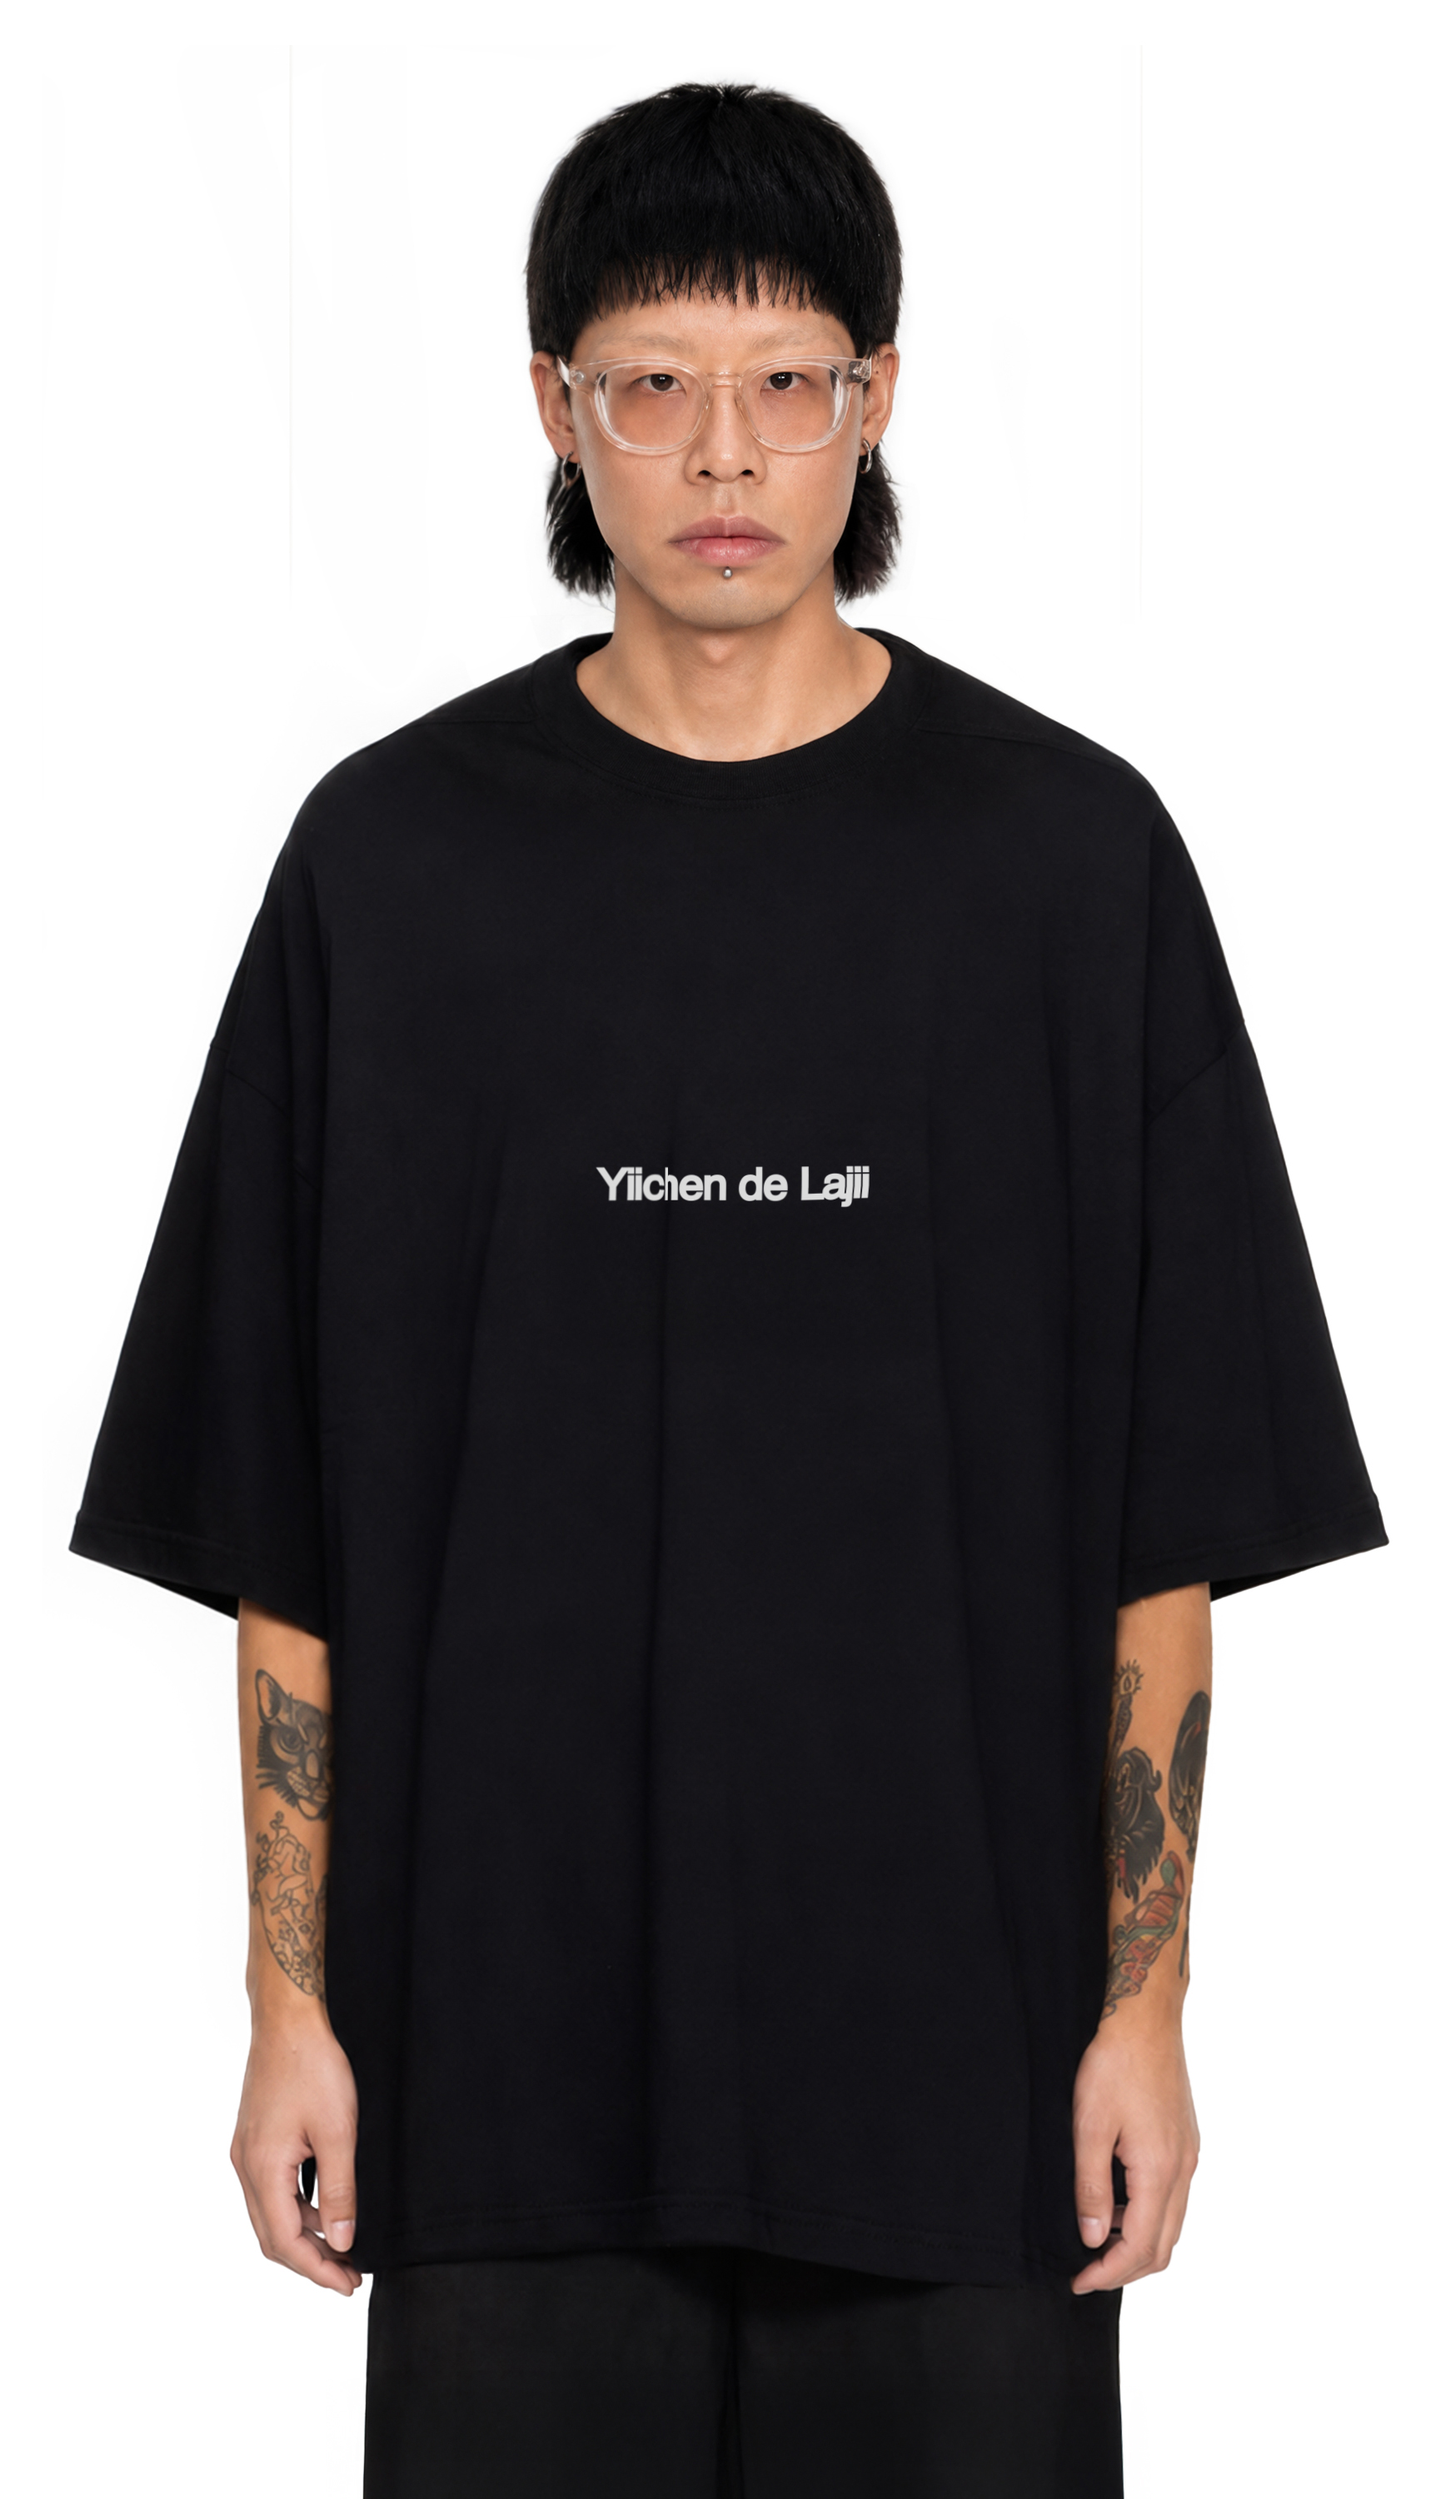
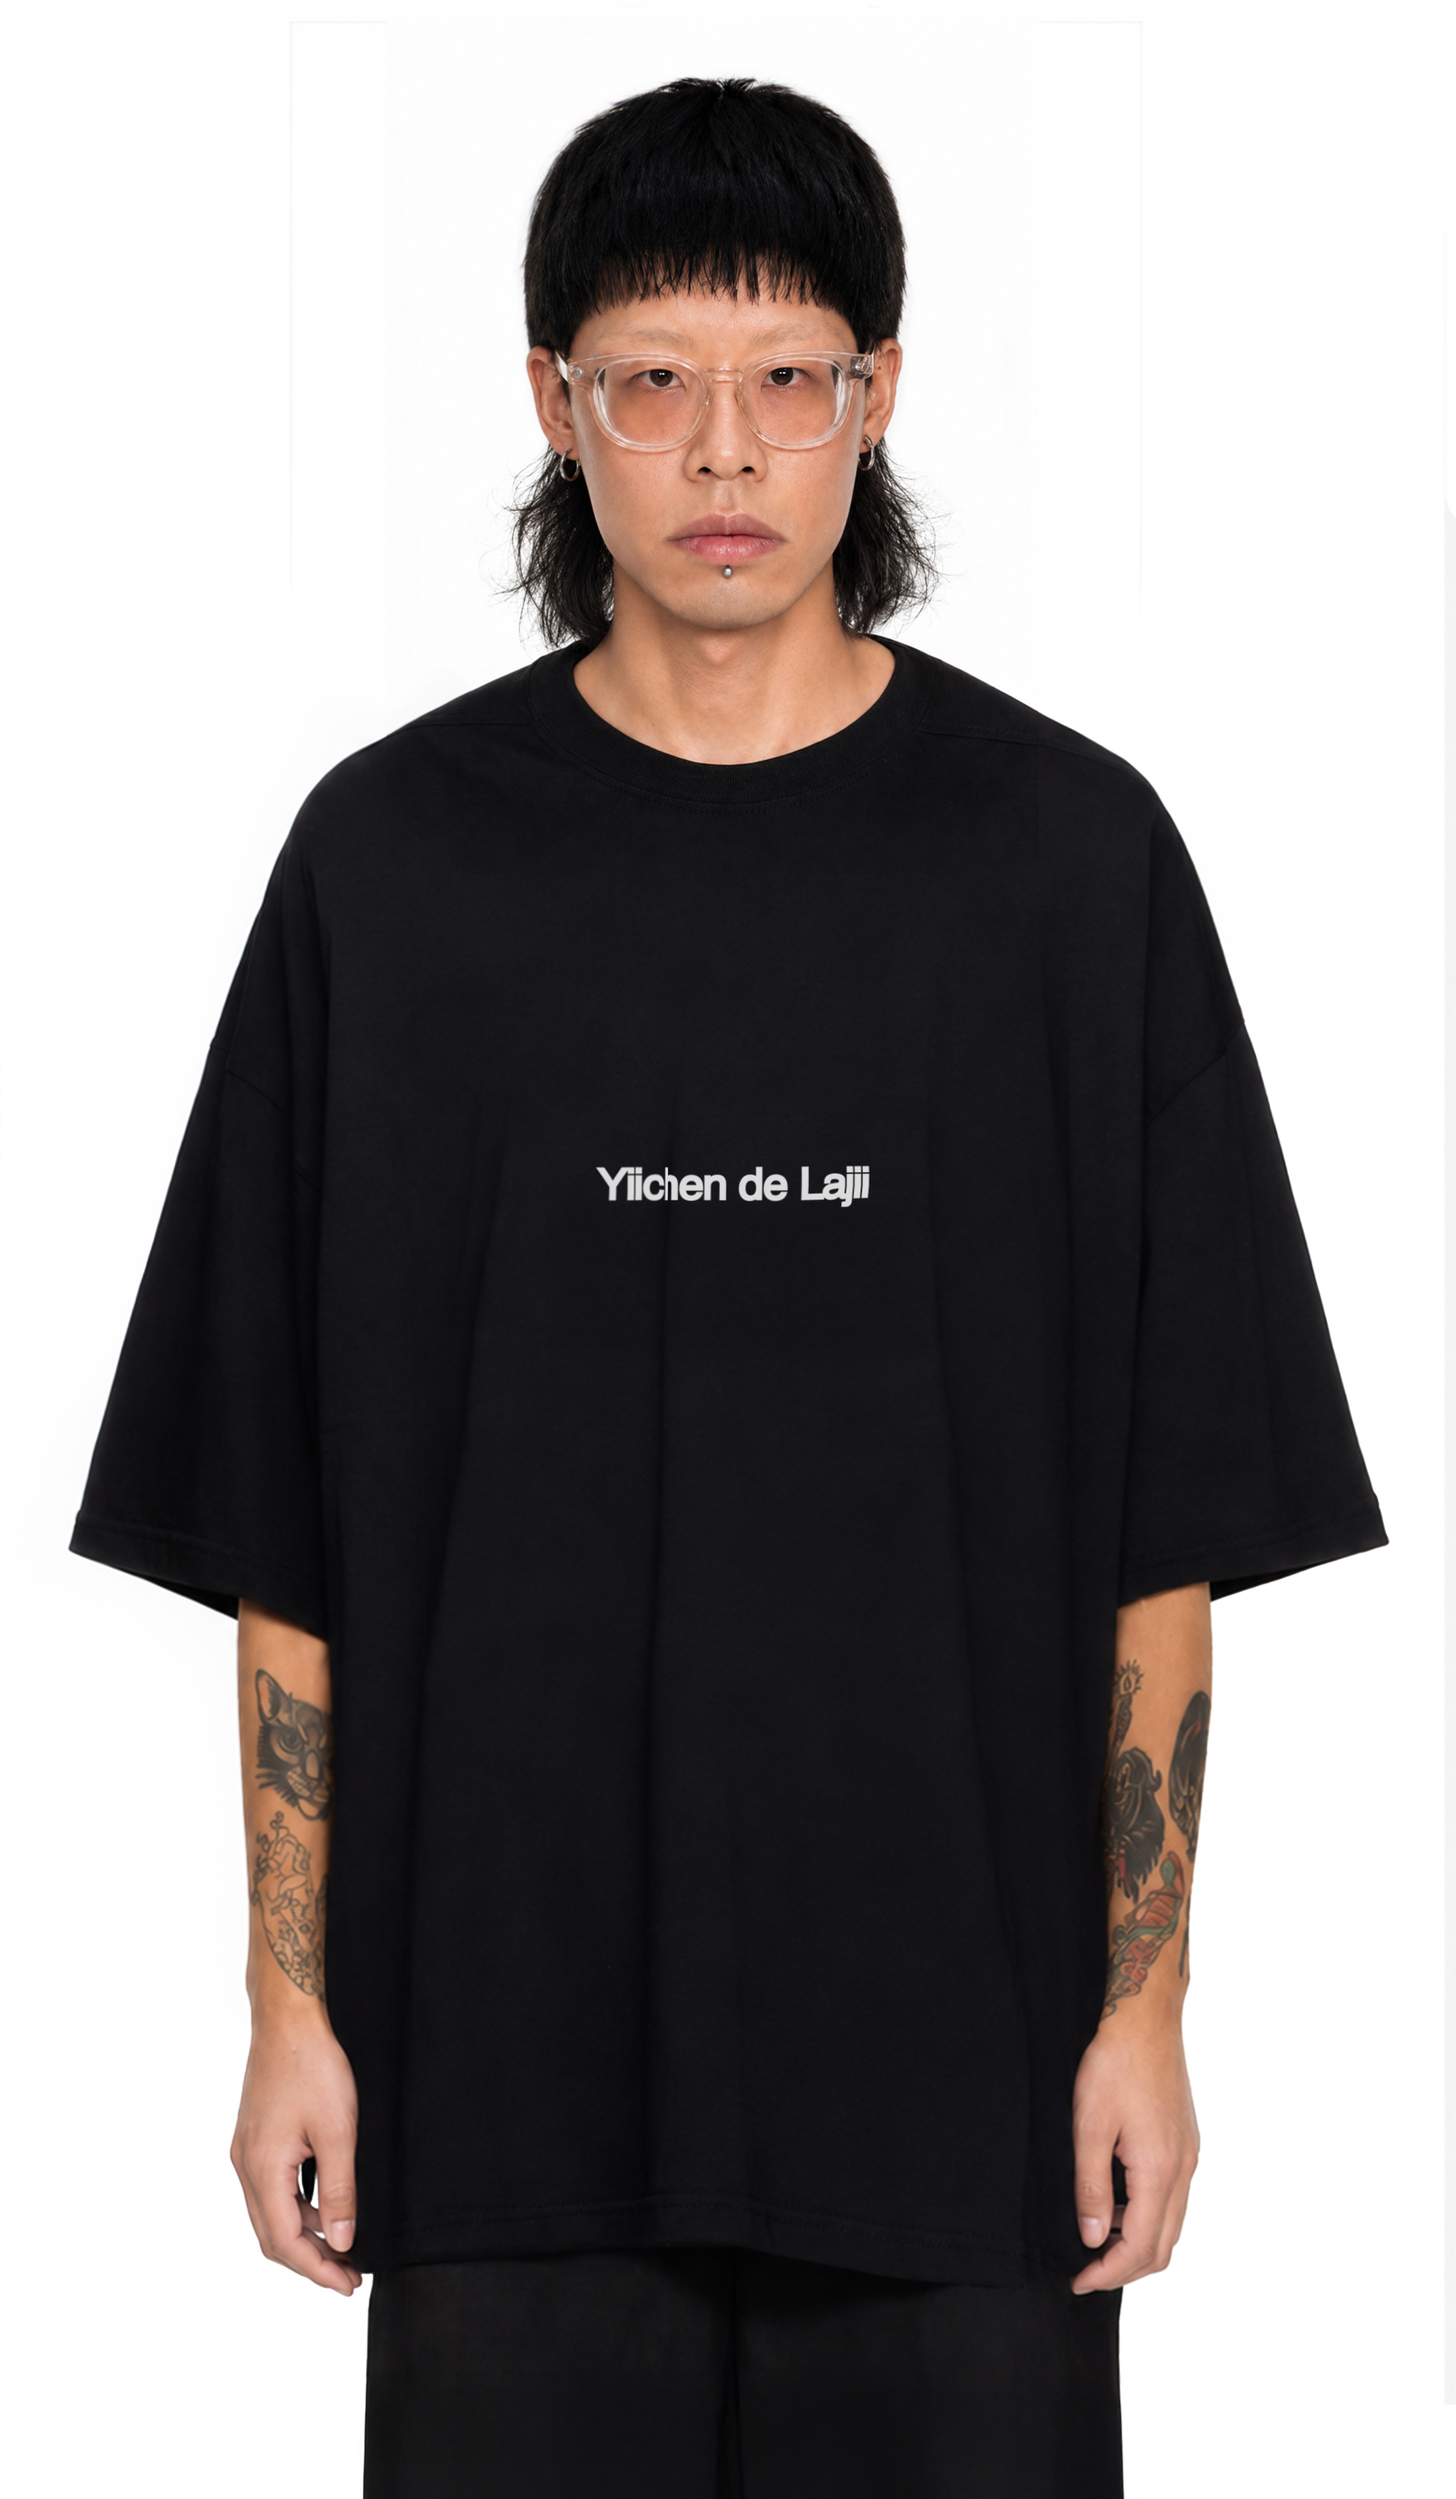
a s d
s d a

diff --git a/docs/pages/category/category.js b/docs/pages/category/category.js
@@ -5,7 +5,11 @@
   var state = {
     category: null,
     products: [],
-    sort: 'default'
+    sort: 'default',
+    touchRaf: 0,
+    touchX: 0,
+    touchY: 0,
+    touchImageItem: null
   };
 
   var title = document.getElementById('category-title');
@@ -19,6 +23,22 @@
     state.sort = sortSelect.value;
     renderProducts();
   });
+
+  productContainer.addEventListener('pointerover', function(event) {
+    if (event.pointerType === 'mouse') setProductImageVariant(event.target, true);
+  });
+
+  productContainer.addEventListener('pointerout', function(event) {
+    var item = getProductItem(event.target);
+
+    if (event.pointerType === 'mouse' && (!item || !item.contains(event.relatedTarget))) {
+      setProductImageVariant(item, false);
+    }
+  });
+
+  productContainer.addEventListener('touchmove', handleProductTouchMove, { passive: true });
+  productContainer.addEventListener('touchend', resetTouchProductImageVariant, { passive: true });
+  productContainer.addEventListener('touchcancel', resetTouchProductImageVariant, { passive: true });
 
   initCategoryPage();
 
@@ -106,15 +126,14 @@
       currency: product.currency || '',
       sizes: getProductSizes(product),
       oddness: parseOddness(product, index),
-      imageCandidates: getCategoryImageCandidates(categoryPath, thumbnail, thumbnail2),
+      thumbnailSrc: getCategoryImageSrc(categoryPath, thumbnail),
+      thumbnail2Src: getCategoryImageSrc(categoryPath, thumbnail2),
       href: getProductHref(category, folderId, product)
     };
   }
 
-  function getCategoryImageCandidates(categoryPath, thumbnail, thumbnail2) {
-    return [thumbnail, thumbnail2].filter(Boolean).map(function(imagePath) {
-      return '../../product-data/' + categoryPath + '/' + imagePath.replace(/^\/+/, '');
-    });
+  function getCategoryImageSrc(categoryPath, imagePath) {
+    return imagePath ? '../../product-data/' + categoryPath + '/' + imagePath.replace(/^\/+/, '') : '';
   }
 
   function getProductHref(category, folderId, product) {
@@ -198,7 +217,10 @@
     if (image) {
       image.classList.remove('is-missing');
       image.alt = product.name;
-      setImageWithFallbacks(image, product.imageCandidates);
+      image.src = product.thumbnailSrc;
+      image.dataset.thumbnailSrc = product.thumbnailSrc;
+      image.dataset.thumbnail2Src = product.thumbnail2Src;
+      preloadImage(product.thumbnail2Src);
     }
 
     if (name) name.textContent = product.name;
@@ -361,22 +383,60 @@
     }
   }
 
-  function setImageWithFallbacks(image, candidates) {
-    var index = 0;
+  function setProductImageVariant(target, useThumbnail2) {
+    var item = getProductItem(target);
+    var image = item ? item.querySelector('.category-product-image') : null;
+    var src = image ? (useThumbnail2 ? image.dataset.thumbnail2Src : image.dataset.thumbnailSrc) : '';
 
-    function next() {
-      if (index >= candidates.length) {
-        image.removeAttribute('src');
-        image.classList.add('is-missing');
-        return;
-      }
+    if (src) image.src = src;
+  }
 
-      image.src = candidates[index];
-      index += 1;
+  function handleProductTouchMove(event) {
+    var touch = event.touches && event.touches[0];
+
+    if (!touch) return;
+    state.touchX = touch.clientX;
+    state.touchY = touch.clientY;
+    if (state.touchRaf) return;
+
+    state.touchRaf = window.requestAnimationFrame(function() {
+      state.touchRaf = 0;
+      setTouchProductImageVariant(document.elementFromPoint(state.touchX, state.touchY));
+    });
+  }
+
+  function setTouchProductImageVariant(target) {
+    var item = getProductItem(target);
+    var image = item ? item.querySelector('.category-product-image') : null;
+
+    if (!item || !image || !image.dataset.thumbnail2Src) return;
+    if (state.touchImageItem === item) return;
+    resetTouchProductImageVariant();
+    state.touchImageItem = item;
+    setProductImageVariant(item, true);
+  }
+
+  function resetTouchProductImageVariant() {
+    if (state.touchRaf) {
+      window.cancelAnimationFrame(state.touchRaf);
+      state.touchRaf = 0;
     }
 
-    image.addEventListener('error', next);
-    next();
+    if (!state.touchImageItem) return;
+
+    setProductImageVariant(state.touchImageItem, false);
+    state.touchImageItem = null;
+  }
+
+  function getProductItem(target) {
+    return target ? target.closest('.category-product-item') : null;
+  }
+
+  function preloadImage(src) {
+    if (!src) return;
+
+    var image = new Image();
+    image.src = src;
   }
 
   function renderEmpty(message) {

diff --git a/admin/js/generate-product-json.js b/admin/js/generate-product-json.js
@@ -286,7 +286,7 @@ async function generateProductJsonNode(options) {
       var displayName = product.name || 'Untitled';
       var images = await scanProductImages(productDir);
       var thumbnail = images[0] || 'images/1.jpg';
-      var thumbnail2 = images[1] || 'images/2.jpg';
+      var thumbnail2 = images[1] || thumbnail;
 
       delete product.img;
       product.images = images;

diff --git a/docs/pages/category/index.html b/docs/pages/category/index.html
@@ -100,6 +100,7 @@
       grid-template-columns: repeat(2, minmax(0, 1fr));
       column-gap: calc(var(--gap-unit) * 4);
       row-gap: calc(var(--gap-unit) * 20);
+      touch-action: pan-y;
     }
 
     .category-product-item,
